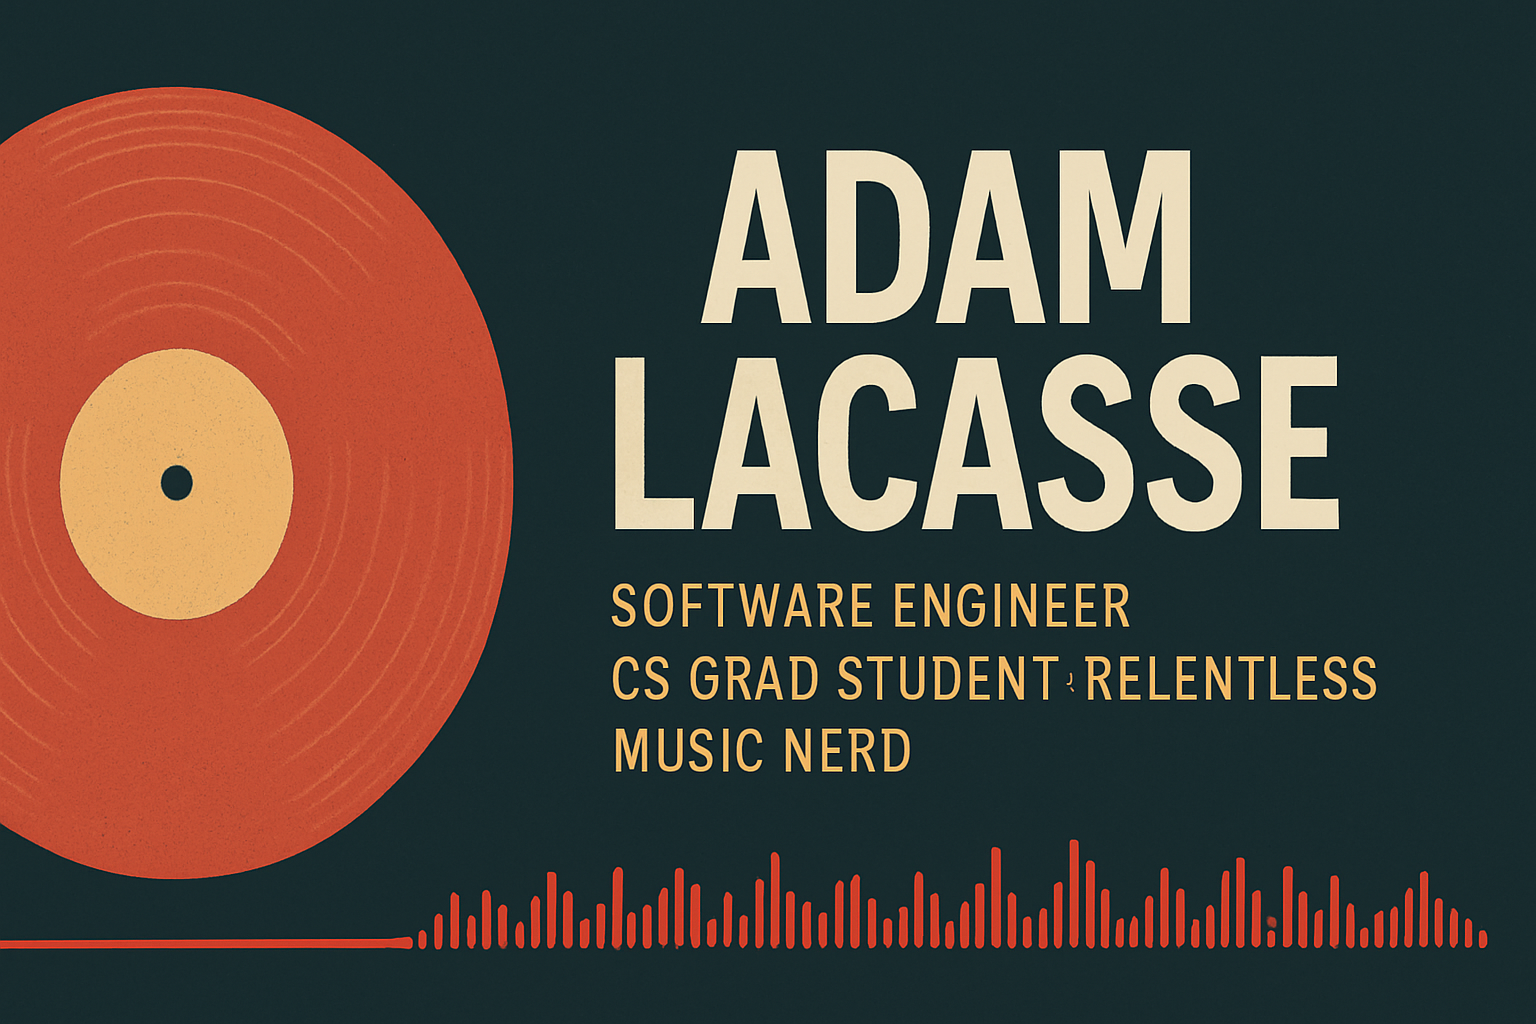
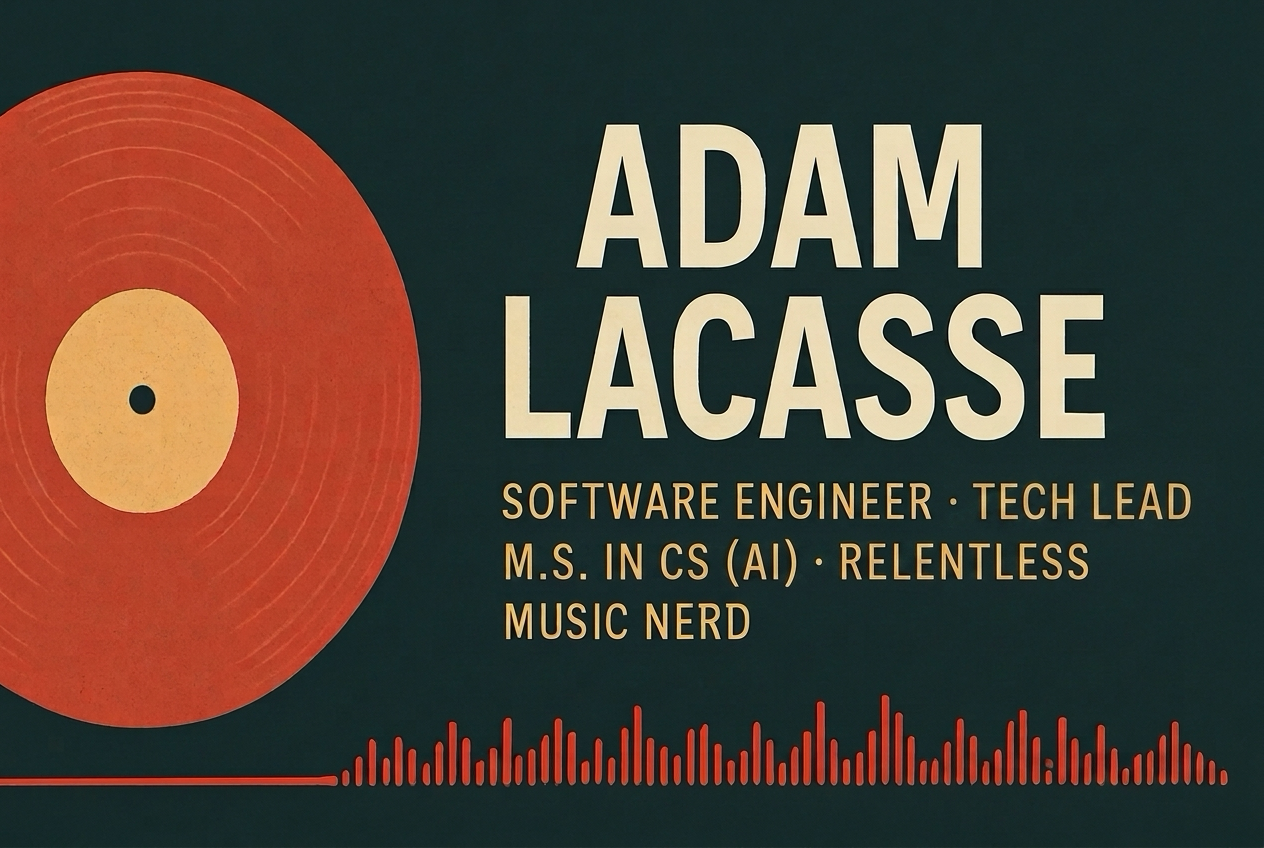
Updates

diff --git a/README.md b/README.md
@@ -4,90 +4,25 @@
 
 # 👋 Hi, I'm Adam LaCasse
 
-**Senior Software Engineer · CS Grad Student · Relentless Music Nerd**
+**Senior Software Engineer & Tech Lead · M.S. in Computer Science (AI Concentration) · Relentless Music Nerd**
 
-🌐 **Portfolio & writing:** https://adamlacasse.dev
-
-I build enterprise-scale web applications and cloud-native services with a focus on **clarity, correctness, and long-term maintainability**. My professional work spans Node.js, React, Java/Spring Boot, Python, and AWS — often in environments where systems must scale to thousands of users and evolve safely over time.
-
-I’m also working toward a **Master of Science in Computer Science**, strengthening the theoretical foundations that support good engineering: algorithms, discrete math, data modeling, and systems thinking. I care deeply about understanding *why* things work — not just making them work.
-
-Outside of software, I’m a lifelong music obsessive — the kind of person who can happily debate Jack DeJohnette’s fusion era or the production choices on Talking Heads’ _Little Creatures_. I enjoy exploring the overlap between **music, data, and technology**, and building tools for people who share that curiosity.
+I build enterprise-scale applications and applied AI tools with a focus on clarity, correctness, and long-term maintainability. I recently completed my **Master of Science in Computer Science** with an **AI concentration**.
 
 ---
 
-## 🚀 What I Work With
+## 🌐 adamlacasse.dev
 
-**Languages**  
-JavaScript · TypeScript · Python · Java · SQL · Go
+Since most of my work, project details, and writing are on my website, I keep this GitHub profile pared down. You can find everything over at **[adamlacasse.dev](https://adamlacasse.dev)**:
 
-**Frameworks & Tools**  
-Node.js · React · Spring Boot · Express · Flask  
-PostgreSQL · MySQL · MongoDB  
-AWS Lambda · S3 · API Gateway  
-Docker · Git · CI/CD · Vercel
-
-**Interests**  
-Backend systems · Databases · Distributed systems  
-Algorithms · Data modeling  
-Music technology · Data-driven music discovery
-
----
-
-## 🎧 Projects & Experiments
-
-### 🎪 **Freq Show**
-A music-nerd application designed to explore artist, album, and track metadata — built for people who read liner notes for fun.
-
-- Focused on rich metadata, search, and discovery
-- Designed with extensibility in mind for future data sources
-- A creative outlet that blends engineering with deep musical curiosity
-
----
-
-### 🌱 **NorthFlow**
-A mindfulness and gratitude check-in application built as part of my CS coursework, with an emphasis on **backend design and data integrity**.
-
-- Designed a normalized MySQL schema (3NF) with composite primary keys and foreign-key constraints
-- Implemented a clean data access layer (DAL) with consistent error handling
-- Wrote aggregate queries and stored procedures to summarize meaningful user data
-- Intentionally scoped the UI to keep the focus on database design and system structure
-
-NorthFlow reflects how I approach systems: deliberate tradeoffs, clear boundaries, and room to grow.
-
----
-
-### 🧰 **Engineering Utilities & Learning Projects**
-A collection of smaller projects and experiments, including:
-
-- Database design exercises and schema evolution
-- SQL queries, views, and procedures
-- Algorithmic problem solving and analysis
-- Scripting tools and coursework supporting my CS master’s program
-
-These projects emphasize fundamentals, correctness, and learning through building.
-
----
-
-## 📚 Current Focus
-
-- Progressing through my **CS master’s curriculum**
-- Strengthening fundamentals in **algorithms, discrete math, and data modeling**
-- Designing reliable, scalable, API-driven backend systems
-- Exploring the intersection of **music, data, and software**
-- Building side projects that balance engineering rigor with creative curiosity
-
-I’m especially interested in work involving **backend systems, databases, and thoughtful product engineering**.
+* 🧑💻 **[About Me](https://adamlacasse.dev/about)** – My background, engineering philosophy, and music obsession.
+* 🎧 **[Projects](https://adamlacasse.dev/projects)** – Music tech experiments (like Freq Show), coursework (like NorthFlow), and utilities.
+* 📄 **[Résumé](https://adamlacasse.dev/resume)** – Professional experience building scale systems for enterprise platforms.
+* ✍ **[Blog](https://adamlacasse.dev/blog)** – Writing on software design, systems, and learning.
+* 📍 **[Now](https://adamlacasse.dev/now)** – What I'm currently focused on.
 
 ---
 
 ## 🔗 Find Me Elsewhere
 
-### **ORCID**
-[![ORCID iD](https://img.shields.io/badge/ORCID-0009--0004--9664--1079-brightgreen.svg)](https://orcid.org/0009-0004-9664-1079)
-
-### **LinkedIn**
-https://linkedin.com/in/adamlacasse
-
-### **Portfolio**
-https://adamlacasse.dev
+* **LinkedIn:** [linkedin.com/in/adamlacasse](https://linkedin.com/in/adamlacasse)
+* **ORCID:** [![ORCID iD](https://img.shields.io/badge/ORCID-0009--0004--9664--1079-brightgreen.svg)](https://orcid.org/0009-0004-9664-1079)
